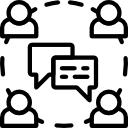
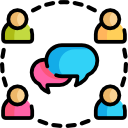
Modificacion Soft y Hard Skills

diff --git a/ProyectoFinalAraujo/src/app/components/hys/hys.component.html b/ProyectoFinalAraujo/src/app/components/hys/hys.component.html
@@ -25,25 +25,25 @@
     </div>
 
     <div class="col-sm-3 col-md-3 col-lg-3">
-        <img src="../../../assets/communication.png">
+        <img src="../../../assets/english.png">
         <h4>English Language  95%</h4>
     </div>
 
 
     <div class="col-sm-3 col-md-3 col-lg-3">
-    <img src="../../../assets/adaptability.png">
+    <img src="../../../assets/webdev.png">
     <h4>Web Development 90%</h4>
     </div>
 
 
     <div class="col-sm-3 col-md-3 col-lg-3">
-    <img src="../../../assets/leadership1.png">
+    <img src="../../../assets/programming.png">
     <h4>HTML, CSS, JS, TS 90%</h4>
     </div>
 
 
     <div class="col-sm-3 col-md-3 col-lg-3">
-    <img src="../../../assets/solving.png">
+    <img src="../../../assets/office.png">
     <h4>Microsoft Office 95%</h4>
     </div>
 </div>

diff --git a/ProyectoFinalAraujo/src/app/components/hys/hys.component.css b/ProyectoFinalAraujo/src/app/components/hys/hys.component.css
@@ -1,12 +1,15 @@
 .row{
     background-color: rgb(168, 168, 196);
     padding: 20px;
+    align-content: center;
     
 }
-#liderazgo{
-    background-color:rgb(168, 168, 196) ;
-    padding-top: 40px;
-}
+
 img{
     padding-top: 40px;
+}
+
+h4{
+    color: darkslategrey;
+    font-weight: bold;
 }
